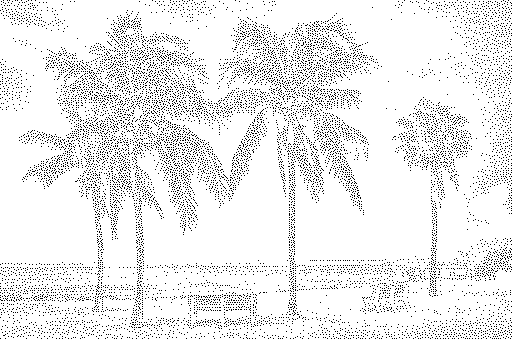
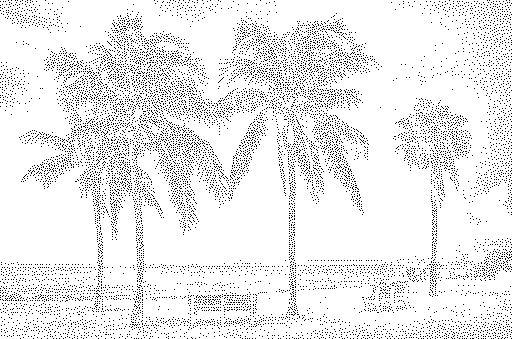
smaller image

diff --git a/index.html b/index.html
@@ -1271,7 +1271,7 @@ Point counts: [1, 100, 200, 300, 400, 500, 600, 700, 800, 900, 1000, 1100, 1200,
 <p><strong>Original Image:</strong></p>
 <div class="quarto-figure quarto-figure-center">
 <figure>
-<p><img src="florida_beach_picture.jpg" class="img-fluid" /></p>
+<p><img src="florida_beach_picture.jpg" class="img-fluid" style="width:60.0%" /></p>
 <figcaption>Original Florida beach image before stippling.</figcaption>
 </figure>
 </div>

diff --git a/index.tex b/index.tex
@@ -234,7 +234,7 @@
 \section{🎨 Selection Bias \& Missing Data Challenge - Part
 1}\label{selection-bias-missing-data-challenge---part-1}
 
-\begin{tcolorbox}[enhanced jigsaw, colframe=quarto-callout-important-color-frame, title=\textcolor{quarto-callout-important-color}{\faExclamation}\hspace{0.5em}{📊 Challenge Requirements}, coltitle=black, opacityback=0, bottomrule=.15mm, leftrule=.75mm, colbacktitle=quarto-callout-important-color!10!white, left=2mm, bottomtitle=1mm, colback=white, breakable, rightrule=.15mm, toptitle=1mm, opacitybacktitle=0.6, arc=.35mm, toprule=.15mm, titlerule=0mm]
+\begin{tcolorbox}[enhanced jigsaw, opacityback=0, colframe=quarto-callout-important-color-frame, title=\textcolor{quarto-callout-important-color}{\faExclamation}\hspace{0.5em}{📊 Challenge Requirements}, coltitle=black, left=2mm, colback=white, opacitybacktitle=0.6, toptitle=1mm, breakable, bottomtitle=1mm, rightrule=.15mm, colbacktitle=quarto-callout-important-color!10!white, toprule=.15mm, arc=.35mm, titlerule=0mm, leftrule=.75mm, bottomrule=.15mm]
 
 \textbf{Your Task:} Reproduce the blue noise stippling process
 demonstrated below to create: 1. A stippled version of your chosen image
@@ -269,7 +269,7 @@ ensure blue noise properties 3. Iteratively selects points with minimum
 energy 4. Balances image content importance with blue noise spatial
 distribution
 
-\begin{tcolorbox}[enhanced jigsaw, colframe=quarto-callout-warning-color-frame, title=\textcolor{quarto-callout-warning-color}{\faExclamationTriangle}\hspace{0.5em}{⚠ AI Partnership Required}, coltitle=black, opacityback=0, bottomrule=.15mm, leftrule=.75mm, colbacktitle=quarto-callout-warning-color!10!white, left=2mm, bottomtitle=1mm, colback=white, breakable, rightrule=.15mm, toptitle=1mm, opacitybacktitle=0.6, arc=.35mm, toprule=.15mm, titlerule=0mm]
+\begin{tcolorbox}[enhanced jigsaw, opacityback=0, colframe=quarto-callout-warning-color-frame, title=\textcolor{quarto-callout-warning-color}{\faExclamationTriangle}\hspace{0.5em}{⚠ AI Partnership Required}, coltitle=black, left=2mm, colback=white, opacitybacktitle=0.6, toptitle=1mm, breakable, bottomtitle=1mm, rightrule=.15mm, colbacktitle=quarto-callout-warning-color!10!white, toprule=.15mm, arc=.35mm, titlerule=0mm, leftrule=.75mm, bottomrule=.15mm]
 
 This challenge pushes boundaries intentionally. You'll tackle problems
 that normally require weeks of study, but with Cursor AI as your partner
@@ -1488,7 +1488,7 @@ Images}\label{original-and-stippled-images}
 
 \begin{figure}[H]
 
-{\centering \pandocbounded{\includegraphics[keepaspectratio]{florida_beach_picture.jpg}}
+{\centering \includegraphics[width=0.6\linewidth,height=\textheight,keepaspectratio]{florida_beach_picture.jpg}
 
 }
 
@@ -1636,7 +1636,7 @@ Professional-quality GitHub Pages site
 
 \subsection{Getting Started Tips 🚀}\label{getting-started-tips}
 
-\begin{tcolorbox}[enhanced jigsaw, colframe=quarto-callout-note-color-frame, title=\textcolor{quarto-callout-note-color}{\faInfo}\hspace{0.5em}{🎯 Navy SEALs Motto}, coltitle=black, opacityback=0, bottomrule=.15mm, leftrule=.75mm, colbacktitle=quarto-callout-note-color!10!white, left=2mm, bottomtitle=1mm, colback=white, breakable, rightrule=.15mm, toptitle=1mm, opacitybacktitle=0.6, arc=.35mm, toprule=.15mm, titlerule=0mm]
+\begin{tcolorbox}[enhanced jigsaw, opacityback=0, colframe=quarto-callout-note-color-frame, title=\textcolor{quarto-callout-note-color}{\faInfo}\hspace{0.5em}{🎯 Navy SEALs Motto}, coltitle=black, left=2mm, colback=white, opacitybacktitle=0.6, toptitle=1mm, breakable, bottomtitle=1mm, rightrule=.15mm, colbacktitle=quarto-callout-note-color!10!white, toprule=.15mm, arc=.35mm, titlerule=0mm, leftrule=.75mm, bottomrule=.15mm]
 
 \begin{quote}
 ``Slow is Smooth and Smooth is Fast''
@@ -1648,7 +1648,7 @@ challenge will only lead to errors and confusion.}
 
 \end{tcolorbox}
 
-\begin{tcolorbox}[enhanced jigsaw, colframe=quarto-callout-warning-color-frame, title=\textcolor{quarto-callout-warning-color}{\faExclamationTriangle}\hspace{0.5em}{💾 Important: Save Your Work Frequently!}, coltitle=black, opacityback=0, bottomrule=.15mm, leftrule=.75mm, colbacktitle=quarto-callout-warning-color!10!white, left=2mm, bottomtitle=1mm, colback=white, breakable, rightrule=.15mm, toptitle=1mm, opacitybacktitle=0.6, arc=.35mm, toprule=.15mm, titlerule=0mm]
+\begin{tcolorbox}[enhanced jigsaw, opacityback=0, colframe=quarto-callout-warning-color-frame, title=\textcolor{quarto-callout-warning-color}{\faExclamationTriangle}\hspace{0.5em}{💾 Important: Save Your Work Frequently!}, coltitle=black, left=2mm, colback=white, opacitybacktitle=0.6, toptitle=1mm, breakable, bottomtitle=1mm, rightrule=.15mm, colbacktitle=quarto-callout-warning-color!10!white, toprule=.15mm, arc=.35mm, titlerule=0mm, leftrule=.75mm, bottomrule=.15mm]
 
 \textbf{Before you start:} Make sure to commit your work often using the
 Source Control panel in Cursor (Ctrl+Shift+G or Cmd+Shift+G). This
